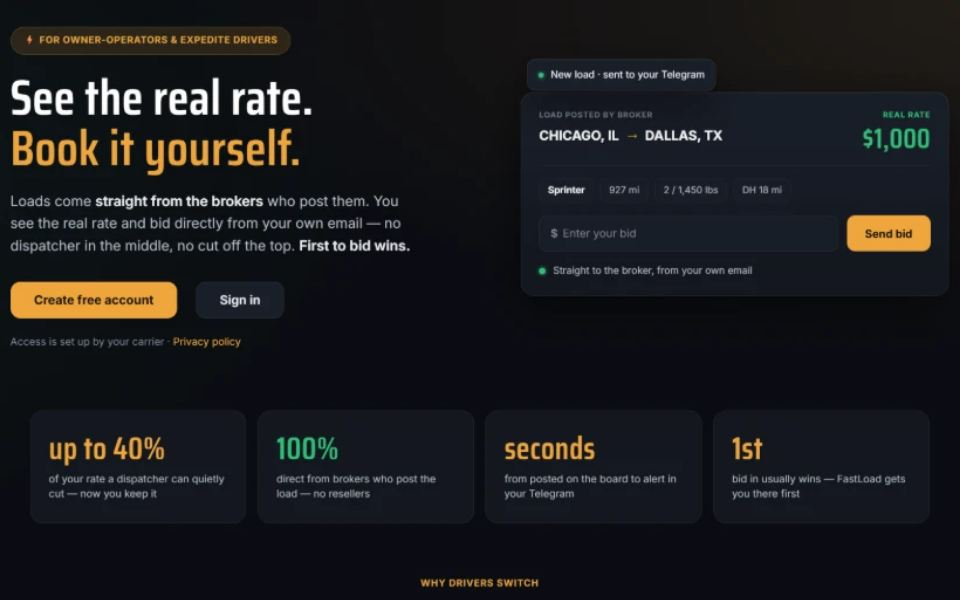
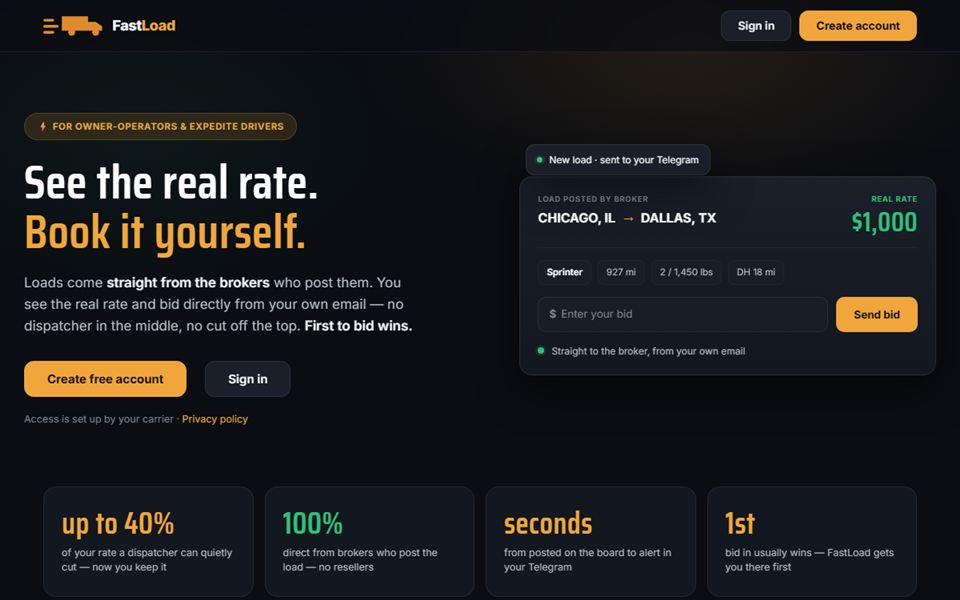
Платформы: карточка 4Power — сайт и CRM, ссылка 4power.club; свежие скриншоты CarBids и FastLoad с живых сайтов (build_images.ps1 снимает их сам)

diff --git a/index.html b/index.html
@@ -371,7 +371,7 @@
             <article class="prod">
               <!-- Скриншот главной страницы продукта: width/height заранее задают пропорцию (16:10),
                    loading="lazy" — картинка грузится, только когда до неё докрутили -->
-              <img class="prod-shot" src="assets/products/carbids.jpg" alt="Главная страница CarBids: поиск по VIN и число лотов в базе" width="960" height="600" loading="lazy" decoding="async">
+              <img class="prod-shot" src="assets/products/carbids.jpg?v=2" alt="Главная страница CarBids: поиск по VIN и число лотов в базе" width="960" height="600" loading="lazy" decoding="async">
               <div class="prod-top"><span class="badge"><i class="live-dot"></i>Работает</span><a class="prod-link" href="https://carbids.info" target="_blank" rel="noopener">carbids.info ↗</a></div>
               <h4 class="prod-name">CarBids</h4>
               <p class="prod-what">История машин с аукционов США по VIN</p>
@@ -381,7 +381,7 @@
             <article class="prod">
               <!-- Скриншот главной страницы продукта: width/height заранее задают пропорцию (16:10),
                    loading="lazy" — картинка грузится, только когда до неё докрутили -->
-              <img class="prod-shot" src="assets/products/fastload.jpg" alt="Главная страница FastLoad: груз от брокера с реальной ставкой и кнопкой ставки" width="960" height="600" loading="lazy" decoding="async">
+              <img class="prod-shot" src="assets/products/fastload.jpg?v=2" alt="Главная страница FastLoad: груз от брокера с реальной ставкой и кнопкой ставки" width="960" height="600" loading="lazy" decoding="async">
               <div class="prod-top"><span class="badge"><i class="live-dot"></i>Работает</span><a class="prod-link" href="https://fastload.app" target="_blank" rel="noopener">fastload.app ↗</a></div>
               <h4 class="prod-name">FastLoad</h4>
               <p class="prod-what">Грузы напрямую от брокеров — для владельцев траков</p>
@@ -391,10 +391,10 @@
             <article class="prod prod--offer">
               <!-- Макет экрана «Доска · По дням» на ВЫМЫШЛЕННЫХ данных (tools/crm-shot.html) — реальных клиентов тут нет -->
               <img class="prod-shot" src="assets/products/crm.jpg?v=2" alt="Доска машин 4Power CRM по дням — демо-данные" width="960" height="600" loading="lazy" decoding="async">
-              <div class="prod-top"><span class="tag-offer">Для автосервисов</span><a class="prod-link" href="#case-4power">кейс ↑</a></div>
-              <h4 class="prod-name">4Power CRM</h4>
-              <p class="prod-what">Управление автосервисом поверх 1С</p>
-              <p class="prod-desc">Та же система, что каждый день работает в 4Power Club. Каждый сервис получает свой сервер и свою базу — адаптирую под ваши посты, процесс и 1С.</p>
+              <div class="prod-top"><span class="tag-offer">Для автосервисов</span><a class="prod-link" href="https://4power.club" target="_blank" rel="noopener">4power.club ↗</a></div>
+              <h4 class="prod-name">4Power · сайт и CRM</h4>
+              <p class="prod-what">Сайт с записью и CRM поверх 1С</p>
+              <p class="prod-desc">Та же связка, что каждый день работает в 4Power Club: сайт, через который клиенты записываются на ремонт, и CRM, где машина ведётся от приёмки до выдачи. Каждый сервис получает свой сервер и свою базу — адаптирую под ваши посты, процесс и 1С.</p>
               <a class="btn btn--small btn--primary prod-cta" href="#contact">Обсудить для своего сервиса <span class="arrow" aria-hidden="true">→</span></a>
             </article>
           </div>

diff --git a/ro/index.html b/ro/index.html
@@ -371,7 +371,7 @@
             <article class="prod">
               <!-- Скриншот главной страницы продукта: width/height заранее задают пропорцию (16:10),
                    loading="lazy" — картинка грузится, только когда до неё докрутили -->
-              <img class="prod-shot" src="../assets/products/carbids.jpg" alt="Pagina principală CarBids: căutare după VIN și numărul de loturi" width="960" height="600" loading="lazy" decoding="async">
+              <img class="prod-shot" src="../assets/products/carbids.jpg?v=2" alt="Pagina principală CarBids: căutare după VIN și numărul de loturi" width="960" height="600" loading="lazy" decoding="async">
               <div class="prod-top"><span class="badge"><i class="live-dot"></i>Funcționează</span><a class="prod-link" href="https://carbids.info" target="_blank" rel="noopener">carbids.info ↗</a></div>
               <h4 class="prod-name">CarBids</h4>
               <p class="prod-what">Istoricul mașinilor de la licitațiile din SUA după VIN</p>
@@ -381,7 +381,7 @@
             <article class="prod">
               <!-- Скриншот главной страницы продукта: width/height заранее задают пропорцию (16:10),
                    loading="lazy" — картинка грузится, только когда до неё докрутили -->
-              <img class="prod-shot" src="../assets/products/fastload.jpg" alt="Pagina principală FastLoad: încărcătură de la broker cu tariful real și butonul de ofertă" width="960" height="600" loading="lazy" decoding="async">
+              <img class="prod-shot" src="../assets/products/fastload.jpg?v=2" alt="Pagina principală FastLoad: încărcătură de la broker cu tariful real și butonul de ofertă" width="960" height="600" loading="lazy" decoding="async">
               <div class="prod-top"><span class="badge"><i class="live-dot"></i>Funcționează</span><a class="prod-link" href="https://fastload.app" target="_blank" rel="noopener">fastload.app ↗</a></div>
               <h4 class="prod-name">FastLoad</h4>
               <p class="prod-what">Încărcături direct de la brokeri — pentru proprietarii de camioane</p>
@@ -391,10 +391,10 @@
             <article class="prod prod--offer">
               <!-- Макет экрана «Доска · По дням» на ВЫМЫШЛЕННЫХ данных (tools/crm-shot.html) — реальных клиентов тут нет -->
               <img class="prod-shot" src="../assets/products/crm.jpg?v=2" alt="Panoul de mașini 4Power CRM pe zile — date demonstrative" width="960" height="600" loading="lazy" decoding="async">
-              <div class="prod-top"><span class="tag-offer">Pentru service-uri auto</span><a class="prod-link" href="#case-4power">proiectul ↑</a></div>
-              <h4 class="prod-name">4Power CRM</h4>
-              <p class="prod-what">Management de service auto peste 1C</p>
-              <p class="prod-desc">Același sistem care funcționează zilnic la 4Power Club. Fiecare service primește propriul server și propria bază de date — îl adaptez la posturile, procesul și 1C-ul dumneavoastră.</p>
+              <div class="prod-top"><span class="tag-offer">Pentru service-uri auto</span><a class="prod-link" href="https://4power.club" target="_blank" rel="noopener">4power.club ↗</a></div>
+              <h4 class="prod-name">4Power · site și CRM</h4>
+              <p class="prod-what">Site cu programare și CRM peste 1C</p>
+              <p class="prod-desc">Același tandem care funcționează zilnic la 4Power Club: un site prin care clienții se programează la reparație și un CRM în care mașina e urmărită de la recepție până la predare. Fiecare service primește propriul server și propria bază de date — îl adaptez la posturile, procesul și 1C-ul dumneavoastră.</p>
               <a class="btn btn--small btn--primary prod-cta" href="#contact">Discutăm pentru service-ul dvs. <span class="arrow" aria-hidden="true">→</span></a>
             </article>
           </div>

diff --git a/en/index.html b/en/index.html
@@ -371,7 +371,7 @@
             <article class="prod">
               <!-- Скриншот главной страницы продукта: width/height заранее задают пропорцию (16:10),
                    loading="lazy" — картинка грузится, только когда до неё докрутили -->
-              <img class="prod-shot" src="../assets/products/carbids.jpg" alt="CarBids home page: VIN search and number of lots" width="960" height="600" loading="lazy" decoding="async">
+              <img class="prod-shot" src="../assets/products/carbids.jpg?v=2" alt="CarBids home page: VIN search and number of lots" width="960" height="600" loading="lazy" decoding="async">
               <div class="prod-top"><span class="badge"><i class="live-dot"></i>Live</span><a class="prod-link" href="https://carbids.info" target="_blank" rel="noopener">carbids.info ↗</a></div>
               <h4 class="prod-name">CarBids</h4>
               <p class="prod-what">US auction car history by VIN</p>
@@ -381,7 +381,7 @@
             <article class="prod">
               <!-- Скриншот главной страницы продукта: width/height заранее задают пропорцию (16:10),
                    loading="lazy" — картинка грузится, только когда до неё докрутили -->
-              <img class="prod-shot" src="../assets/products/fastload.jpg" alt="FastLoad home page: a broker load with the real rate and a bid button" width="960" height="600" loading="lazy" decoding="async">
+              <img class="prod-shot" src="../assets/products/fastload.jpg?v=2" alt="FastLoad home page: a broker load with the real rate and a bid button" width="960" height="600" loading="lazy" decoding="async">
               <div class="prod-top"><span class="badge"><i class="live-dot"></i>Live</span><a class="prod-link" href="https://fastload.app" target="_blank" rel="noopener">fastload.app ↗</a></div>
               <h4 class="prod-name">FastLoad</h4>
               <p class="prod-what">Loads straight from brokers — for owner-operators</p>
@@ -391,10 +391,10 @@
             <article class="prod prod--offer">
               <!-- Макет экрана «Доска · По дням» на ВЫМЫШЛЕННЫХ данных (tools/crm-shot.html) — реальных клиентов тут нет -->
               <img class="prod-shot" src="../assets/products/crm.jpg?v=2" alt="4Power CRM car board by day — demo data" width="960" height="600" loading="lazy" decoding="async">
-              <div class="prod-top"><span class="tag-offer">For car workshops</span><a class="prod-link" href="#case-4power">case study ↑</a></div>
-              <h4 class="prod-name">4Power CRM</h4>
-              <p class="prod-what">Workshop management on top of 1C</p>
-              <p class="prod-desc">The same system that runs every day at 4Power Club. Each workshop gets its own server and database — I adapt it to your bays, process and 1C.</p>
+              <div class="prod-top"><span class="tag-offer">For car workshops</span><a class="prod-link" href="https://4power.club" target="_blank" rel="noopener">4power.club ↗</a></div>
+              <h4 class="prod-name">4Power · website and CRM</h4>
+              <p class="prod-what">Booking website and CRM on top of 1C</p>
+              <p class="prod-desc">The same pairing that runs every day at 4Power Club: a website where customers book repairs, and a CRM that tracks each car from check-in to handover. Each workshop gets its own server and database — I adapt it to your bays, process and 1C.</p>
               <a class="btn btn--small btn--primary prod-cta" href="#contact">Discuss it for your workshop <span class="arrow" aria-hidden="true">→</span></a>
             </article>
           </div>

diff --git a/tools/build_i18n.py b/tools/build_i18n.py
@@ -248,11 +248,11 @@ T = [
     ('alt="Главная страница FastLoad: груз от брокера с реальной ставкой и кнопкой ставки"', 'alt="Pagina principală FastLoad: încărcătură de la broker cu tariful real și butonul de ofertă"', 'alt="FastLoad home page: a broker load with the real rate and a bid button"'),
     ('alt="Доска машин 4Power CRM по дням — демо-данные"', 'alt="Panoul de mașini 4Power CRM pe zile — date demonstrative"', 'alt="4Power CRM car board by day — demo data"'),
     ('<span class="tag-offer">Для автосервисов</span>', '<span class="tag-offer">Pentru service-uri auto</span>', '<span class="tag-offer">For car workshops</span>'),
-    ('>кейс ↑</a>', '>proiectul ↑</a>', '>case study ↑</a>'),
-    ('<p class="prod-what">Управление автосервисом поверх 1С</p>', '<p class="prod-what">Management de service auto peste 1C</p>', '<p class="prod-what">Workshop management on top of 1C</p>'),
-    ('Та же система, что каждый день работает в 4Power Club. Каждый сервис получает свой сервер и свою базу — адаптирую под ваши посты, процесс и 1С.',
-     'Același sistem care funcționează zilnic la 4Power Club. Fiecare service primește propriul server și propria bază de date — îl adaptez la posturile, procesul și 1C-ul dumneavoastră.',
-     'The same system that runs every day at 4Power Club. Each workshop gets its own server and database — I adapt it to your bays, process and 1C.'),
+    ('<p class="prod-what">Сайт с записью и CRM поверх 1С</p>', '<p class="prod-what">Site cu programare și CRM peste 1C</p>', '<p class="prod-what">Booking website and CRM on top of 1C</p>'),
+    ('<h4 class="prod-name">4Power · сайт и CRM</h4>', '<h4 class="prod-name">4Power · site și CRM</h4>', '<h4 class="prod-name">4Power · website and CRM</h4>'),
+    ('Та же связка, что каждый день работает в 4Power Club: сайт, через который клиенты записываются на ремонт, и CRM, где машина ведётся от приёмки до выдачи. Каждый сервис получает свой сервер и свою базу — адаптирую под ваши посты, процесс и 1С.',
+     'Același tandem care funcționează zilnic la 4Power Club: un site prin care clienții se programează la reparație și un CRM în care mașina e urmărită de la recepție până la predare. Fiecare service primește propriul server și propria bază de date — îl adaptez la posturile, procesul și 1C-ul dumneavoastră.',
+     'The same pairing that runs every day at 4Power Club: a website where customers book repairs, and a CRM that tracks each car from check-in to handover. Each workshop gets its own server and database — I adapt it to your bays, process and 1C.'),
     ('Обсудить для своего сервиса <span', 'Discutăm pentru service-ul dvs. <span', 'Discuss it for your workshop <span'),
     # ---------- 4Power: новые пункты ----------
     ('<b>Связь с 1С</b> — наряды и приходы на склад подтягиваются из 1С сами, без двойного ввода; повторный приход не двоит деталь.',
